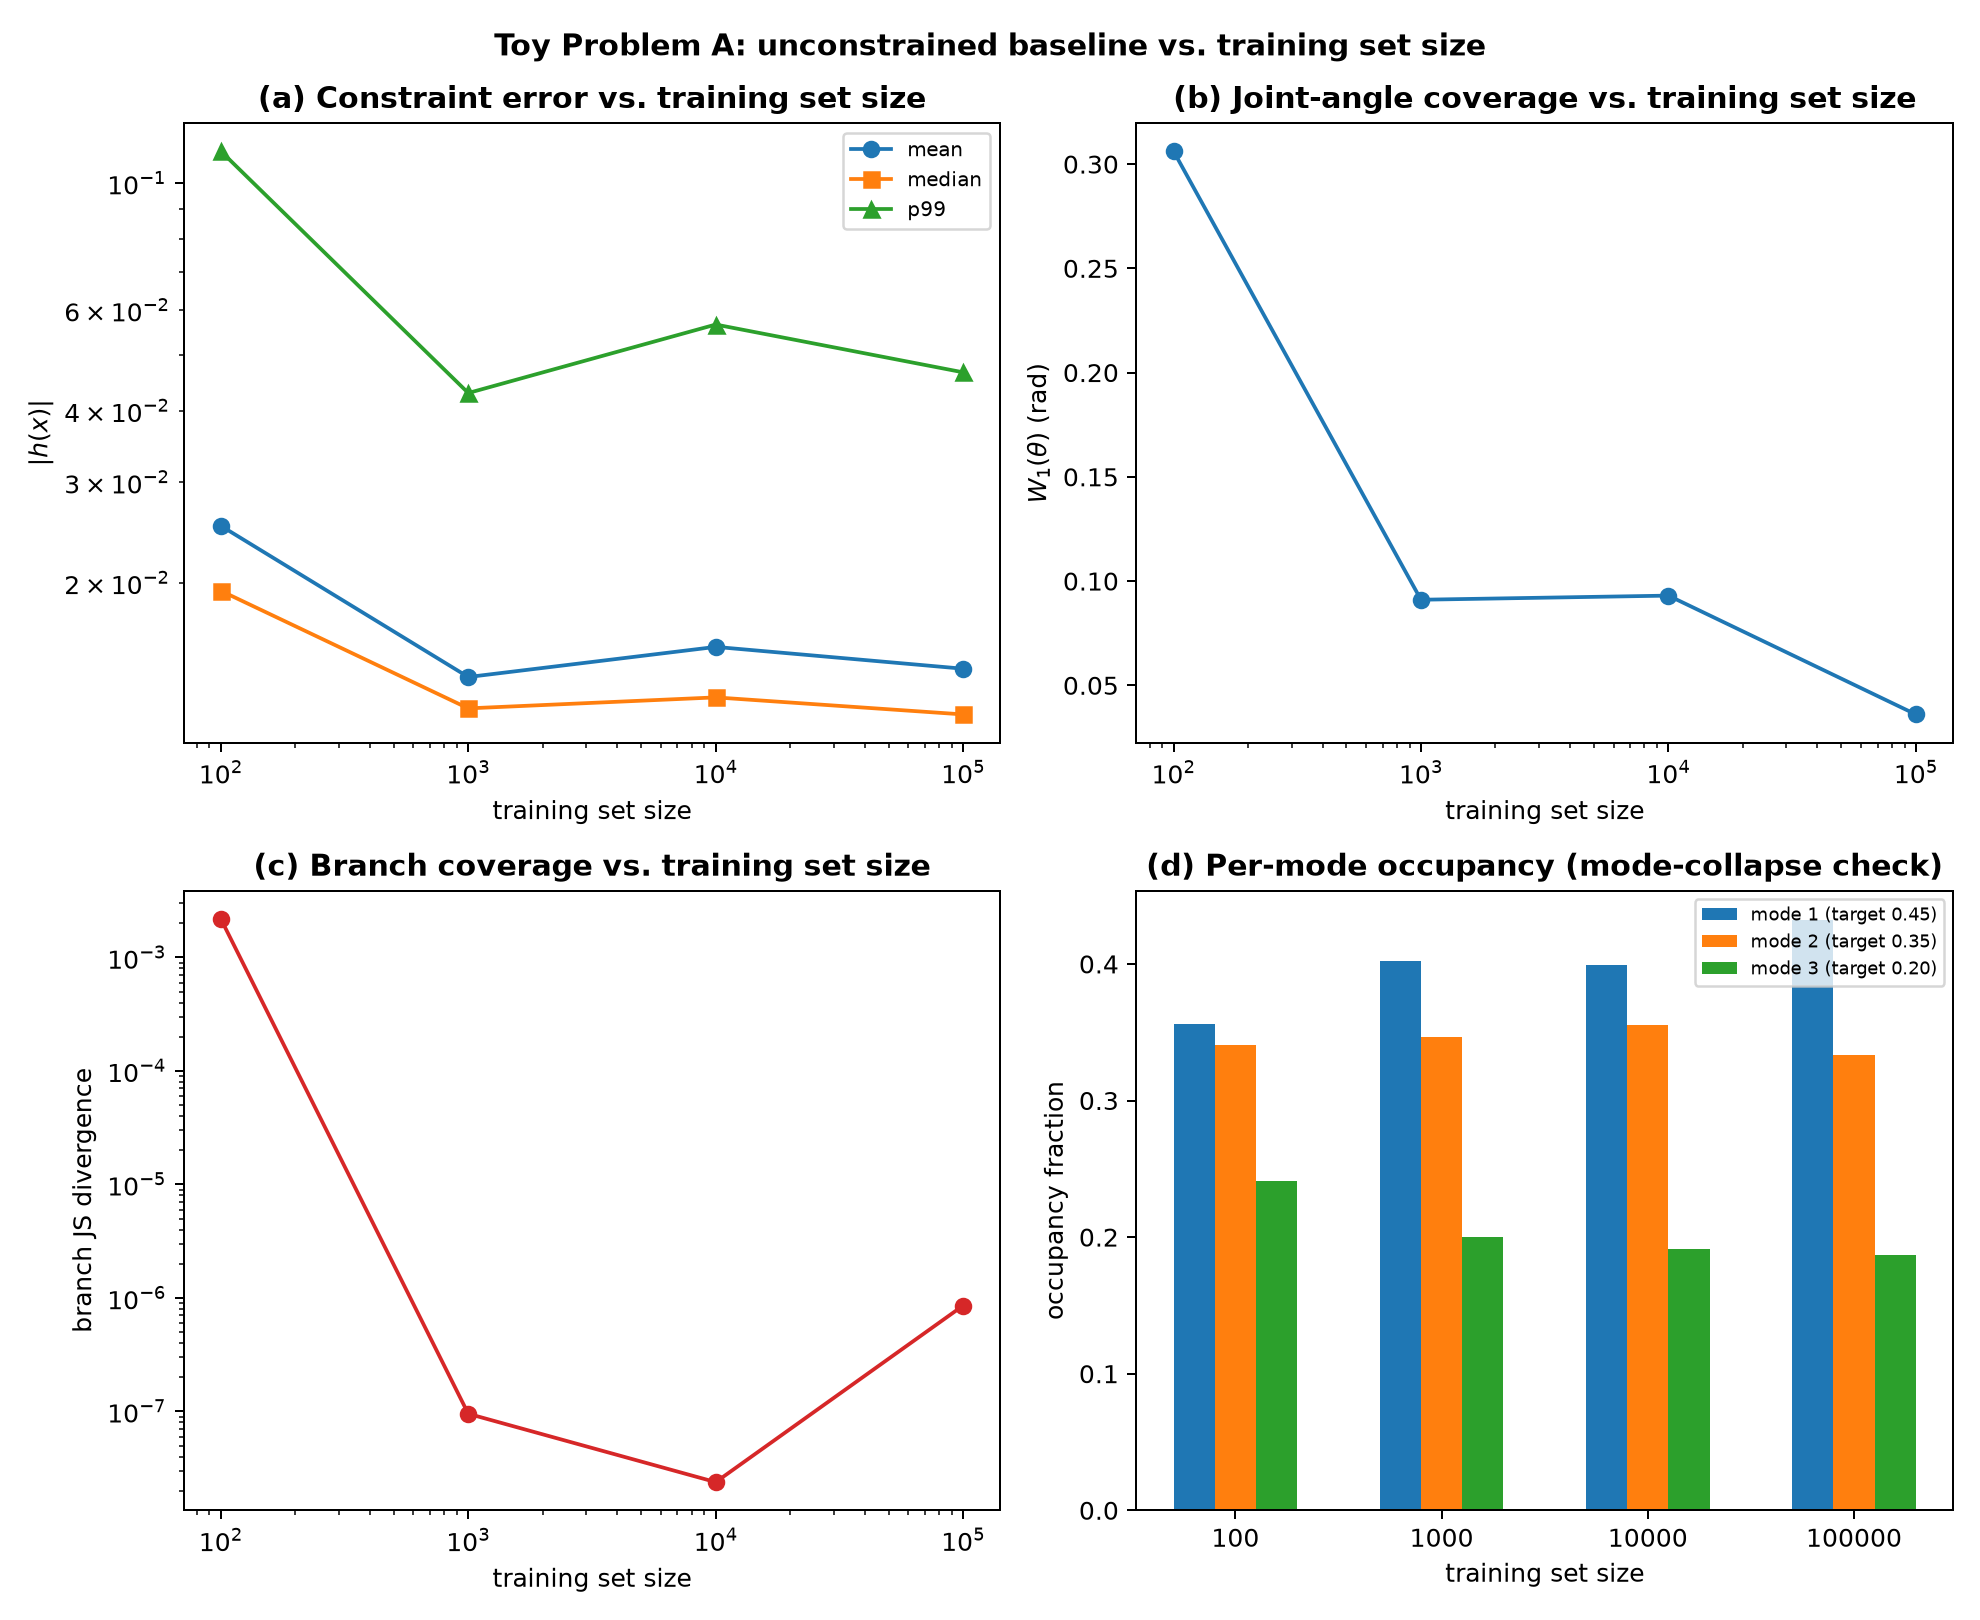
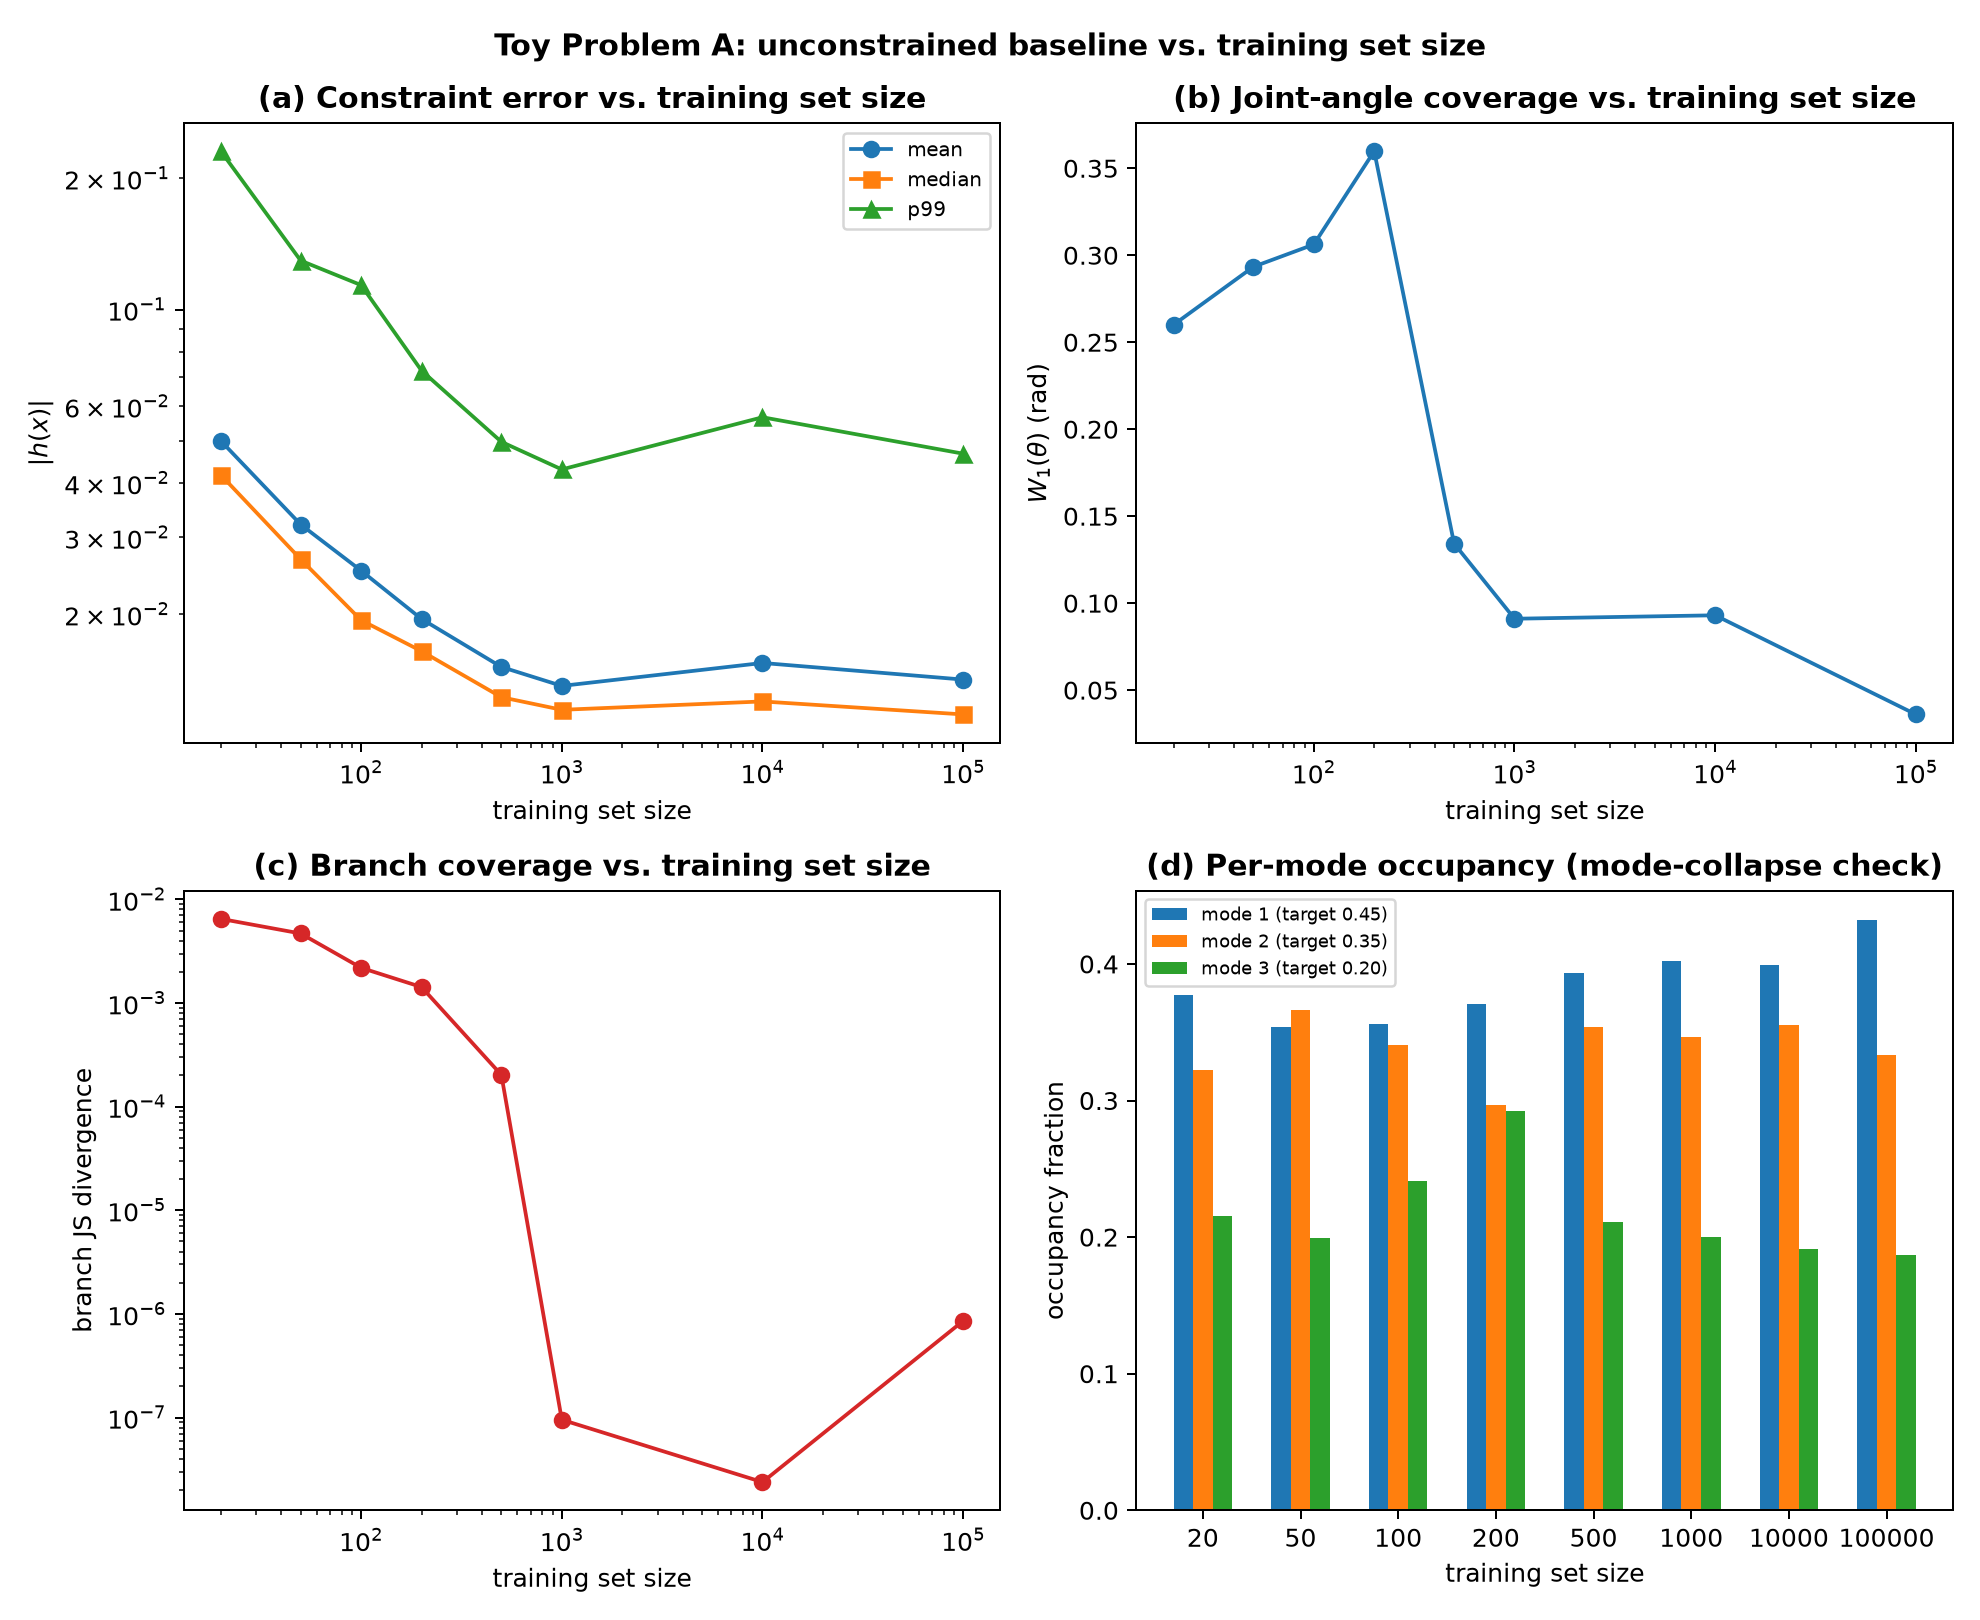
Extend E05 scaling sweep to n=20/50/200/500, add train-vs-generated plot
train_and_evaluate_scaling_e00.py: N_TRAIN_VALUES now
{20,50,100,200,500,1000,10000,100000}. Added checkpoint reuse (skip
retraining if checkpoints/e00_scaling_n{n}.pkl already exists) so
re-running the sweep only trains the new points.

Finding: constraint error is now cleanly monotonic with finer
resolution, plateauing by n~500-1000. Theta coverage is NOT monotonic
at the low end -- W1 actually gets worse from n=20 (0.26) up through
n=200 (0.36, the peak) before dropping sharply at n=500 (0.13). Three
consecutive increasing points makes this unlikely to be pure noise,
but this is still only one training seed per point, so it should be
read as a real but uncertain effect, not a confirmed law.

plot_training_vs_generated_e00.py: static plot (n_train=50 by default)
overlaying the actual training points, the model's generated samples,
and the true coupler curve -- same composition as
E03_e00_unconstrained_flow.gif's final frame. Shows the mechanism
directly: with only 50 training points, generated samples cluster
tightly around each individual training point rather than covering the
curve smoothly, i.e. local interpolation rather than learning the
manifold as a whole.

diff --git a/experiments/E05_data_scaling/plot_training_vs_generated_e00.py b/experiments/E05_data_scaling/plot_training_vs_generated_e00.py
@@ -1,0 +1,87 @@
+"""Static comparison: which training points a small dataset actually
+contains, and what the model trained on them generates, against the
+true feasible manifold. A static counterpart to the final frame of
+figures/E03_e00_unconstrained_flow.gif, but for a specific (small)
+n_train instead of the full 100,000-sample baseline -- to show directly
+why a sparse training set produces the theta-coverage gaps measured in
+train_and_evaluate_scaling_e00.py (e.g. if the training points happen
+to under-sample a mode, the generated distribution mirrors that gap).
+
+Usage:
+    python3 plot_training_vs_generated_e00.py --n-train 50
+"""
+
+import argparse
+import pathlib
+import sys
+
+import jax
+import numpy as np
+import matplotlib.pyplot as plt
+
+REPO_ROOT = pathlib.Path(__file__).resolve().parent.parent.parent
+sys.path.insert(0, str(REPO_ROOT / "src"))
+import flow_matching as fm  # noqa: E402
+from e00_linkage_dataset import solve_linkage_batch  # noqa: E402
+
+
+def load_full_dataset(path):
+    npz = np.load(path)
+    return np.concatenate([npz["x3"], npz["x4"]], axis=-1).astype(np.float32)
+
+
+def true_coupler_curves():
+    thetas = np.linspace(0, 2 * np.pi, 720)
+    x3, x4_plus, x4_minus = solve_linkage_batch(thetas)
+    return 0.5 * (x3 + x4_plus), 0.5 * (x3 + x4_minus)
+
+
+def main():
+    parser = argparse.ArgumentParser(description=__doc__)
+    parser.add_argument("--n-train", type=int, default=50)
+    parser.add_argument("--n-generated", type=int, default=600)
+    parser.add_argument("--data", default=REPO_ROOT / "data" / "e00_linkage_dataset.npz")
+    parser.add_argument("--checkpoint", default=None)
+    parser.add_argument("--seed", type=int, default=5)
+    args = parser.parse_args()
+
+    ckpt_path = pathlib.Path(args.checkpoint) if args.checkpoint else (
+        REPO_ROOT / "checkpoints" / f"e00_scaling_n{args.n_train}.pkl")
+    if not ckpt_path.exists():
+        raise FileNotFoundError(
+            f"{ckpt_path} not found -- run train_and_evaluate_scaling_e00.py with "
+            f"n_train={args.n_train} in N_TRAIN_VALUES first.")
+    params = fm.load_params(ckpt_path)
+
+    data_full = load_full_dataset(args.data)
+    train_data = data_full[:args.n_train]
+    train_coupler = 0.5 * (train_data[:, :2] + train_data[:, 2:])
+
+    rng = jax.random.PRNGKey(args.seed)
+    generated = np.asarray(fm.sample(rng, params, dim=4, n=args.n_generated, num_steps=100))
+    gen_coupler = 0.5 * (generated[:, :2] + generated[:, 2:])
+
+    coupler_plus, coupler_minus = true_coupler_curves()
+
+    fig, ax = plt.subplots(figsize=(7, 7))
+    ax.plot(*coupler_plus.T, color="black", lw=1.2, alpha=0.5, label="true feasible manifold")
+    ax.plot(*coupler_minus.T, color="black", lw=1.2, alpha=0.5)
+    ax.scatter(gen_coupler[:, 0], gen_coupler[:, 1], s=10, color="#1f77b4", alpha=0.5,
+               label=f"generated (n={args.n_generated})")
+    ax.scatter(train_coupler[:, 0], train_coupler[:, 1], s=70, color="#ff7f0e",
+               edgecolor="black", linewidth=0.6, zorder=5,
+               label=f"training points (n={args.n_train})")
+    ax.set_aspect("equal")
+    ax.set_xlabel("$x$")
+    ax.set_ylabel("$y$")
+    ax.set_title(f"Toy Problem A: training data vs. generated samples "
+                  f"(n_train = {args.n_train})", fontweight="bold")
+    ax.legend(loc="upper right", fontsize=9)
+    fig.tight_layout()
+    out_path = REPO_ROOT / "figures" / f"E05_e00_train_vs_generated_n{args.n_train}.png"
+    fig.savefig(out_path, dpi=180)
+    print(f"Saved {out_path}")
+
+
+if __name__ == "__main__":
+    main()

diff --git a/experiments/E05_data_scaling/train_and_evaluate_scaling_e00.py b/experiments/E05_data_scaling/train_and_evaluate_scaling_e00.py
@@ -28,7 +28,7 @@ from e00_linkage_dataset import (  # noqa: E402
 )
 
 DIM = 4
-N_TRAIN_VALUES = [100, 1_000, 10_000, 100_000]
+N_TRAIN_VALUES = [20, 50, 100, 200, 500, 1_000, 10_000, 100_000]
 N_EVAL = 5000
 STEPS = 20_000
 
@@ -51,12 +51,20 @@ def mode_occupancy(theta, tol_std=2.0):
 
 
 def run_one(data_full, n_train, eval_seed):
-    train_data = data_full[:n_train]
-    rng = jax.random.PRNGKey(0)
-    init_key, train_key = jax.random.split(rng)
-    params = fm.init_params(init_key, dim=DIM)
-    params, losses = fm.train(train_key, params, train_data, dim=DIM,
-                               steps=STEPS, batch_size=min(512, n_train), log_every=0)
+    ckpt_path = REPO_ROOT / "checkpoints" / f"e00_scaling_n{n_train}.pkl"
+    if ckpt_path.exists():
+        print(f"  (reusing existing checkpoint {ckpt_path.name})")
+        params = fm.load_params(ckpt_path)
+        losses = [float("nan")]
+    else:
+        train_data = data_full[:n_train]
+        rng = jax.random.PRNGKey(0)
+        init_key, train_key = jax.random.split(rng)
+        params = fm.init_params(init_key, dim=DIM)
+        params, losses = fm.train(train_key, params, train_data, dim=DIM,
+                                   steps=STEPS, batch_size=min(512, n_train), log_every=0)
+        ckpt_path.parent.mkdir(parents=True, exist_ok=True)
+        fm.save_params(params, ckpt_path)
 
     sample_rng = jax.random.PRNGKey(eval_seed)
     final = np.asarray(fm.sample(sample_rng, params, dim=DIM, n=N_EVAL, num_steps=100))
@@ -69,10 +77,6 @@ def run_one(data_full, n_train, eval_seed):
     p_gen_plus = float(np.mean(branch_gen == 1))
     js = binary_js_divergence(p_gen_plus, BRANCH_PROB_PLUS)
     occ = mode_occupancy(theta_gen)
-
-    ckpt_path = REPO_ROOT / "checkpoints" / f"e00_scaling_n{n_train}.pkl"
-    ckpt_path.parent.mkdir(parents=True, exist_ok=True)
-    fm.save_params(params, ckpt_path)
 
     return {
         "n_train": n_train,
